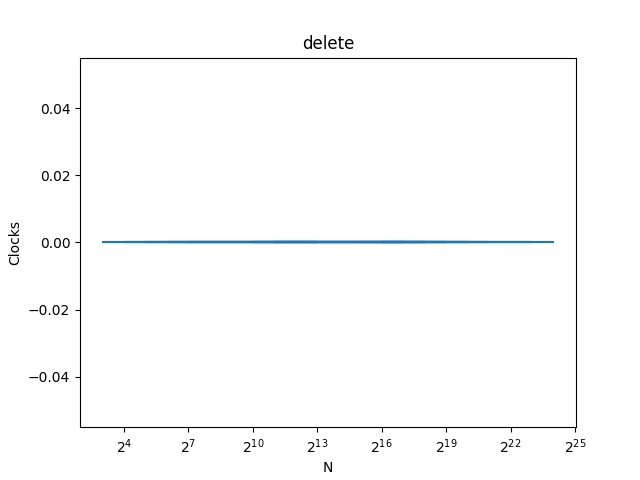
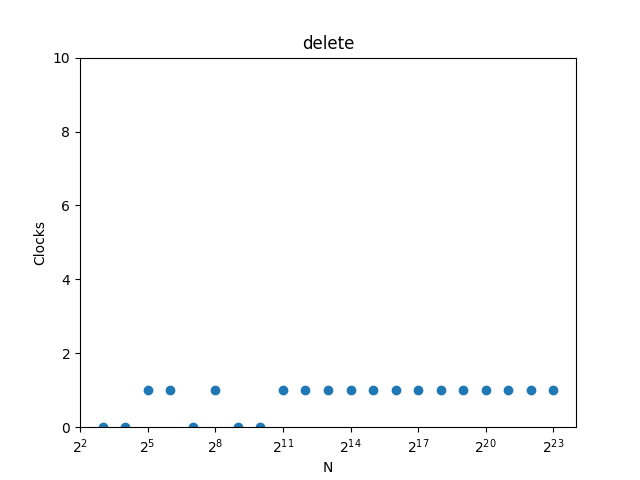
new test results

diff --git a/scripts/test.py b/scripts/test.py
@@ -48,7 +48,8 @@ def main():
             ax.set_xlabel('N')
             ax.set_ylabel('Clocks')
             ax.set_title(op)
-            plt.plot(x, y, '-')
+            plt.ylim([0, 10])
+            plt.plot(x, y, 'o')
             plt.savefig(exe_name+ '_' + op + '.png')
 
 if __name__ == "__main__":

diff --git a/scripts/generator.py b/scripts/generator.py
@@ -19,7 +19,7 @@ def generate(size_lg):
                 ht[key] = data
                 o_file.write("true\n")
 
-        for _ in range(1000):
+        for _ in range(10000):
             op = random.choice(list(OP))
             key = random.randrange(-size, size)
 
